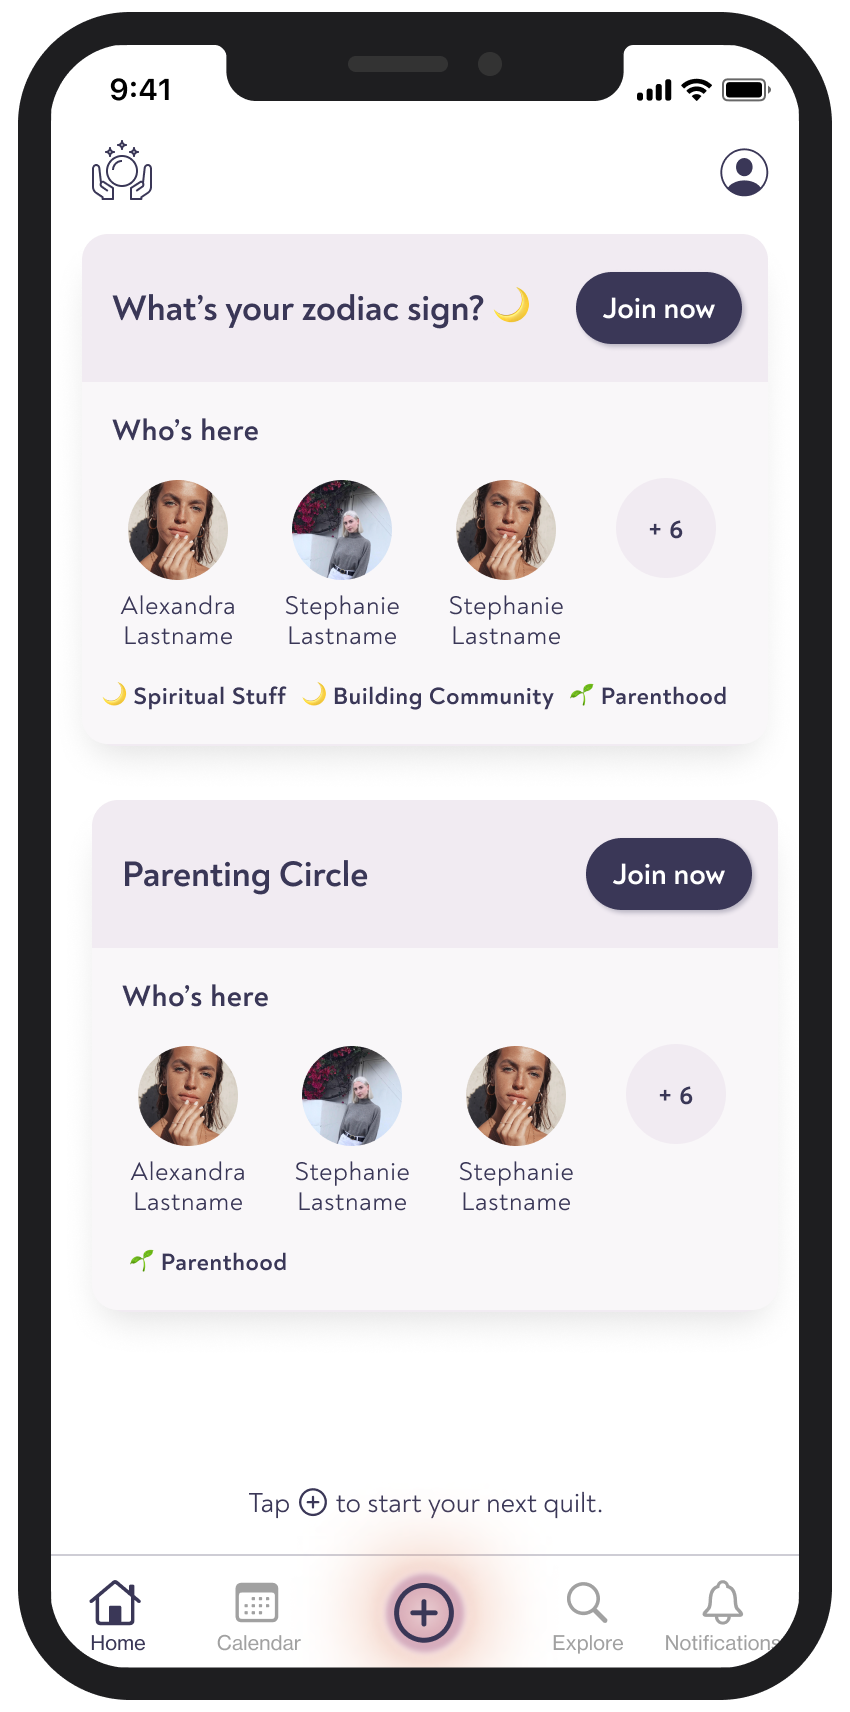
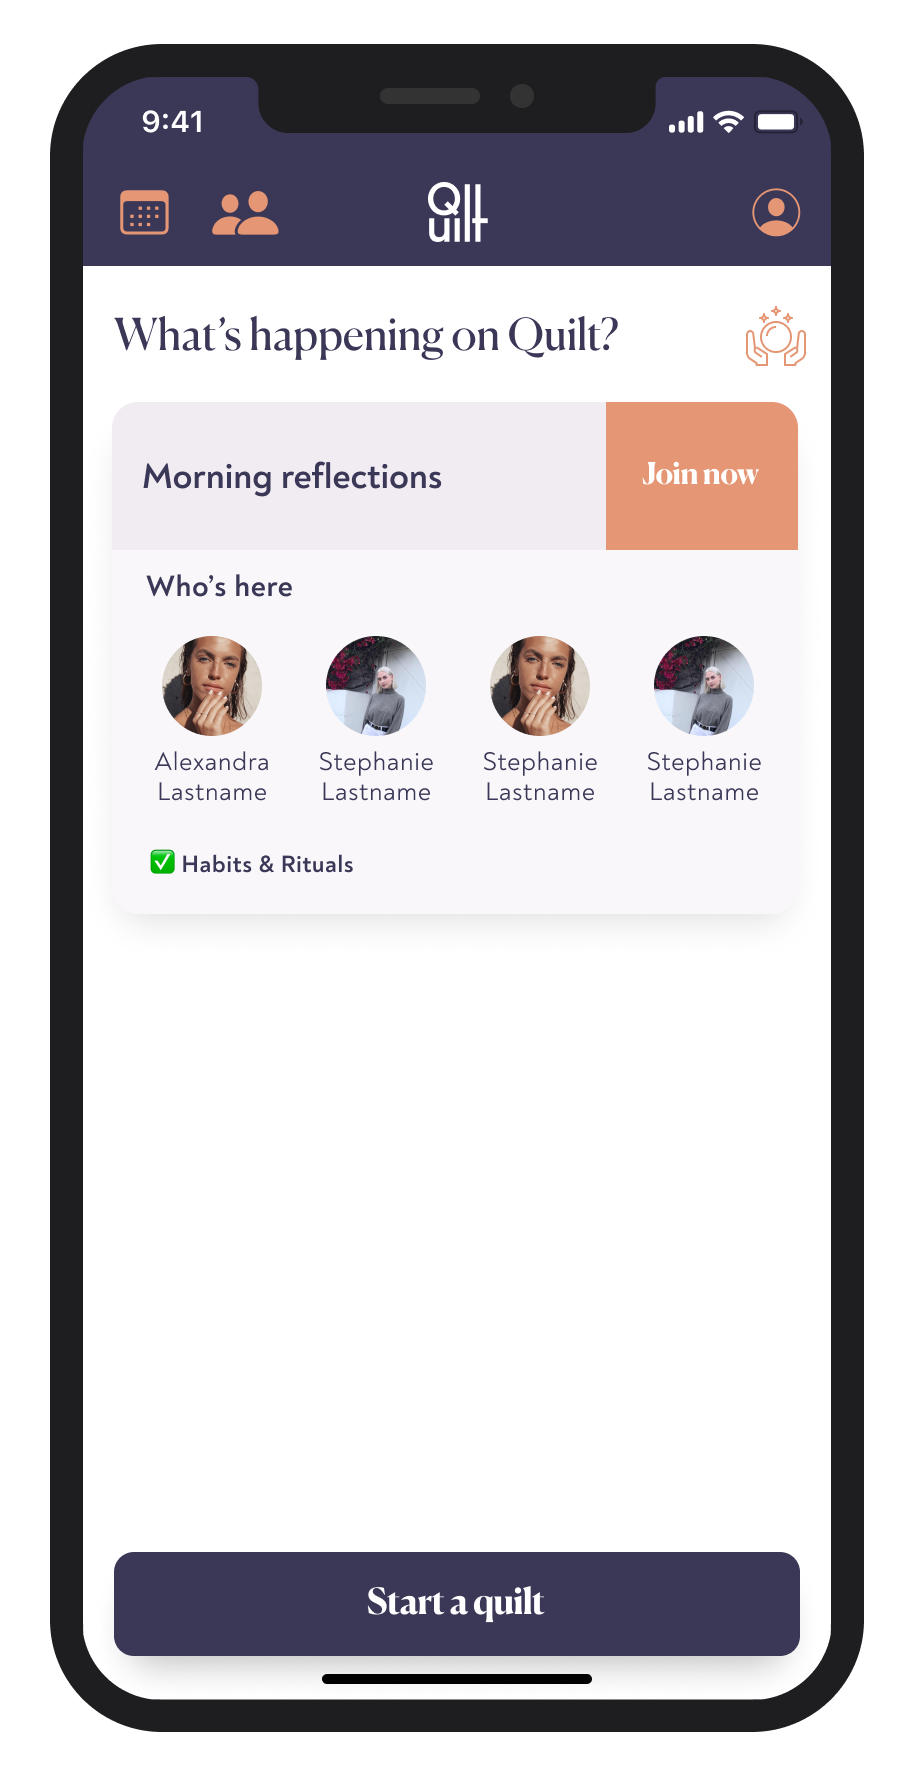
change thumbs

diff --git a/style.css b/style.css
@@ -1,4 +1,5 @@
-html, body {
+html,
+body {
     font-family: system-ui, -apple-system, BlinkMacSystemFont, 'Segoe UI', Roboto, Oxygen, Ubuntu, Cantarell, 'Open Sans', 'Helvetica Neue', sans-serif;
     color: white;
     background-color: black;
@@ -8,22 +9,180 @@ html, body {
     width: 100%;
 }
 
-img {
-    height: auto;
-    width: auto;
-    max-width: 100%;
-    /* max-height: 360px; */
+h1 {
+    margin: 0;
 }
 
-ol.work {
-    list-style-type: none;
-    margin: 0;
+/* https://www.joshwcomeau.com/css/interactive-guide-to-grid/ */
+.parent {
+    display: grid;
+    grid-template-columns: 1fr 3fr;
+    height: 100vh;
+}
+
+.child {
+    padding: 16px 32px;
+}
+
+.left {
+    background-color: rgb(40, 40, 40);
+    min-width: 18.5rem;
+}
+
+.right {
+    overflow-y: scroll;
+}
+
+@media only screen and (min-width: 0px) and (max-width: 768px) {
+    .parent {
+        display: block;
+    }
+}
+
+div.container {
+    margin-top: 16px;
+    display: grid;
+    /* gap: 40px; */
+    grid-template-columns: 1fr 1fr;
+}
+
+div.column {
+    column-count: 1;
+}
+
+div.frame {
+    display: inline-block;
+    border: 1px white solid;
+    width: 260px;
+    height: 260px;
+    padding: 64px 16px 0;
+    overflow: hidden;
+}
+
+div.slide-frame {
+    display: inline-block;
+    border: 1px white solid;
+    width: 240px;
+    height: 240px;
+    padding: 64px 16px 0;
+    overflow: hidden;
+}
+
+img {
+    height: 100%;
+    width: 100%;
+    object-fit: cover;
+    object-position: 100% 0%;
+}
+
+#zoom img {
+    animation-duration: 0.25s;
+    animation-fill-mode: forwards;
+    animation-timing-function: ease-out;
+    animation-name: zoom-in;
+}
+
+@keyframes zoom-in {
+    0% {
+        transform: scale(0.7) translateY(-190px);
+        height: auto;
+        opacity: 1;
+    }
+
+    100% {
+        transform: scale(1) translateY(0);
+        height: auto;
+        opacity: 1;
+    }
+}
+
+#zoom:hover img {
+    animation-duration: 0.4s;
+    animation-fill-mode: forwards;
+    animation-timing-function: ease-in;
+    animation-name: zoom-out;
+}
+
+@keyframes zoom-out {
+    0% {
+        transform: scale(1) translateY(0);
+        height: auto;
+        opacity: 0.7;
+    }
+
+    100% {
+        transform: scale(0.7) translateY(-190px);
+        height: auto;
+        opacity: 1;
+    }
+}
+
+#slide img {
+    animation-duration: 0.15s;
+    animation-fill-mode: forwards;
+    animation-timing-function: ease-out;
+    animation-name: slide-down;
+}
+
+@keyframes slide-down {
+    0% {
+        transform: translateY(-32px);
+        height: auto;
+    }
+
+    100% {
+        transform: translateY(16px);
+        height: auto;
+    }
+}
+
+#slide:hover img {
+    animation-duration: 0.2s;
+    animation-fill-mode: forwards;
+    animation-timing-function: ease-in;
+    animation-name: slide-up;
+}
+
+@keyframes slide-up {
+    0% {
+        transform: translateY(16px);
+        height: auto;
+    }
+
+    100% {
+        transform: translateY(-32px);
+        height: auto;
+    }
+}
+
+div.overlay-frame {
+    display: inline-block;
+    border: 1px white solid;
+    width: 260px;
+    height: 495px;
+    overflow: hidden;
+    position: relative;
+}
+
+#overlay img {
+    position: absolute;
+    top: 0;
+    left: 0;
+    width: calc(100% - 32px);
+    height: calc(100% - 32px);
+    object-fit: cover;
     padding: 16px;
 }
 
-ol.work li {
-    display: flex;
-    justify-content: center;
-    align-items: center;
-    margin-bottom: 32px;
+.before {
+    z-index: 1;
+}
+
+.after {
+    z-index: 2;
+    transform: translateY(100%);
+}
+
+#overlay:hover .after {
+    transform: translateY(0);
 }

diff --git a/index.html b/index.html
@@ -1,91 +1,16 @@
 <!DOCTYPE html>
-<html lang="en">
+<html lang=en>
 <head>
-    <meta charset="UTF-8">
-    <meta name="viewport" content="width=device-width, initial-scale=1.0">
+    <meta charset=UTF-8>
+    <meta name=viewport content="width=device-width, initial-scale=1.0">
     <title>Katie Lin</title>
-	<link rel="stylesheet" type="text/css" href="style.css">
-	<style>
-		/* https://www.joshwcomeau.com/css/interactive-guide-to-grid/ */
-		.parent {
-			display: grid;
-			grid-template-columns: 1fr 3fr;
-			/* gap: 16px; */
-			height: 100vh;
-		}
-
-		h1 {
-			margin: 0;
-		}
-
-		.child {
-			padding: 16px 32px;
-		}
-
-		.left {
-			background-color: rgb(40, 40, 40);
-			min-width: 18.5rem;
-		}
-
-		.right {
-			/* background-color: darkslategrey; */
-			overflow-y: scroll;
-		}
-
-		ol.work {
-			column-count: 3;
-		}
-
-		@media only screen and (min-width: 768px) and (max-width: 992px) {
-			ol.work {
-				column-count: 1;
-			}
-		}
-
-		@media only screen and (min-width: 992px) and (max-width: 1200px) {
-			ol.work {
-				column-count: 2;
-			}
-		}
-
-		@media only screen and (min-width: 0px) and (max-width: 768px) {
-			.parent {
-				display: block;
-			}
-
-			/* .left {
-				position: sticky;
-				top: 0;
-				width: 100vw;
-			} */
-
-			ol.toc {
-				column-count: 2;
-				column-gap: 16px;
-			}
-		}
-
-		.zoom {
-			transition: transform .2s;
-		}
-
-		.zoom img {
-			transform: scale(1.5);
-			width: 200px;
-			height: auto;
-		}
-		
-		.zoom:hover img {
-			transform: scale(1);
-		}
-	</style>
-</head>
+	<link rel=stylesheet type=text/css href=style.css>
 <body>
 	<main>
 		<div class=parent>
 			<div class="child left">
 				<h1>blah blah blah</h1>
-				<ol class="toc">
+				<ol class=toc>
 					<li>Some project name</li>
 					<li>Some project name</li>
 					<li>Some project name</li>
@@ -96,18 +21,16 @@
 			</div>
 			<div class="child right">
 				<h1>blah blah blah</h1>
-				<ol class="work">
-					<li>
-						<img src="assets/prompts/thumbnail.png">
-					</li>
-					<li class="zoom">
-						<!-- <img class=zoom src="assets/saqf/thumbnail.png"> -->
-						 <img src="assets/saqf/full.png">
-					</li>
-					<li>
-						<img src="assets/hyprrun/iPhone 14 Plus-2.png">
-					</li>
-				</ol>
+				<div class=container>
+					<div class=column>
+						<div id=zoom class=frame><img src=assets/hyprrun/thumbnail.png></div>
+						<div id=slide class=slide-frame><img src=assets/prompts/frame-1.png></div>
+					</div>
+					<div id=overlay class=overlay-frame>
+						<img src=assets/saqf/frame-1.png class=before>
+						<img src=assets/saqf/frame-2.png class=after>
+					</div>
+				</div>
 			</div>
 		</div>
 	</main>
